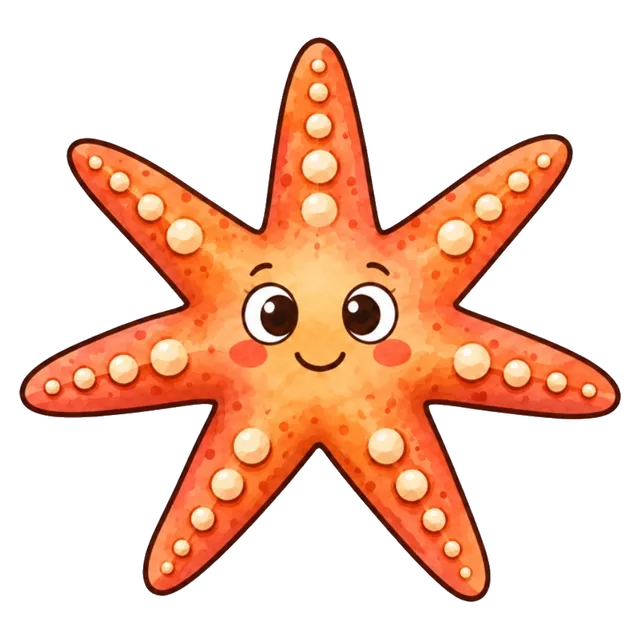
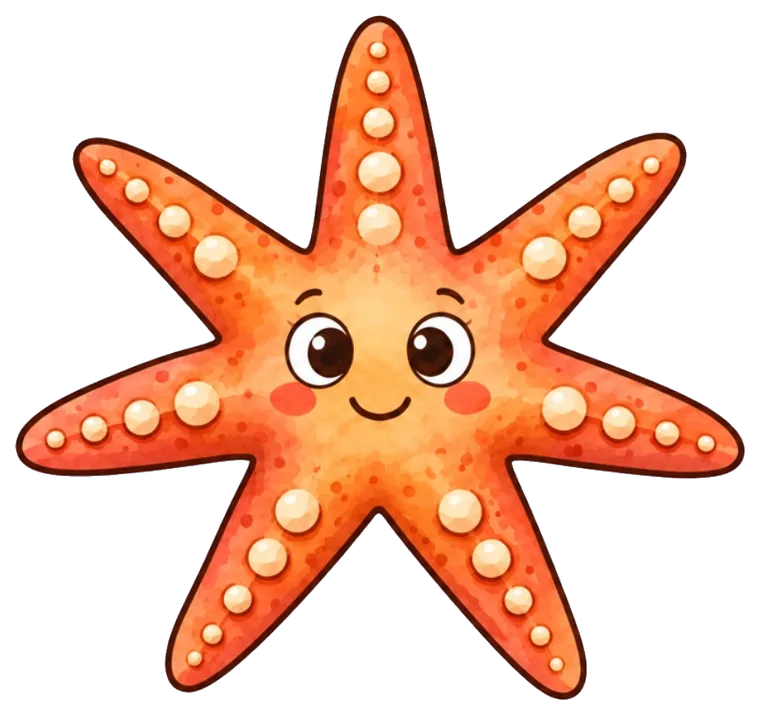
v0.33: Tiere deutlich größer
Bilder eng zugeschnitten statt im Quadrat mit leeren Streifen; das Feld übernimmt das
Seitenverhältnis des Tiers, breite Tiere (Oktopus, Seepferdchen, Nashorn) werden breit statt klein.
Obergrenze 62 % der Breite bzw. 280 px statt 46 % / 210 px, etwas weniger Luft, und das Tier ragt
12 px in den Drehraum über dem ruhenden Würfel (gemessen: den braucht er nur beim Rollen).
Bei 390 × 844: 242 statt 179 px hoch. Tests: Größe, zwischen Kopfzeile und ruhendem Würfel,
Zahlplakette bleibt bei allen Tieren beider Sätze im Bild.

Claude-Session: https://claude.ai/code/session_01HZNDqFfj1AaNFCT1pCLNkA

Changed region(s): [[0.0, 0.0, 1.0, 1.0], [0.4688, 0.5625, 0.5312, 0.5938]]

diff --git a/index.html b/index.html
@@ -63,11 +63,14 @@ button { font: inherit; color: inherit; border: 0; background: none; cursor: poi
 
 /* Tiere: jede Zahl hat ihr Tier (Vogel 4 … Zebra 10) – Anker „wir sind bei der 7, beim Seestern“.
    Zwei Sätze: Sticker (tiere/) und wild & bunt (tiere/wild/), Schalter 🐾 auf der Startseite. */
-/* Das Tier nimmt den freien Platz über dem Würfel: so groß, wie die Seite hergibt, höchstens 46 % der Breite
-   bzw. 210 px. Auf dem kleinen iPhone wird es kleiner, statt etwas aus dem Bild zu schieben. */
-.tier { position: relative; flex: 1 1 0; width: 100%; min-height: 70px; max-height: min(46vw, 210px);
+/* Das Tier nimmt den freien Platz über dem Würfel: so groß, wie die Seite hergibt, höchstens 62 % der Breite
+   bzw. 280 px hoch. Auf dem kleinen iPhone wird es kleiner, statt etwas aus dem Bild zu schieben.
+   Das Feld hat das Seitenverhältnis des Tiers (--seiten, vom Skript): breite Tiere werden breit, nicht klein.
+   Unten ragt es 12 px in die Luft über dem ruhenden Würfel (die braucht er nur beim Rollen). */
+.tier { position: relative; flex: 1 1 0; width: 100%; min-height: 70px; max-height: min(62vw, 280px); margin-bottom: -12px;
   display: flex; justify-content: center; }
-.tier-platte { position: relative; height: 100%; aspect-ratio: 1; container-type: size; }
+.tier-platte { position: relative; height: 100%; aspect-ratio: var(--seiten, 1); container-type: size;
+  max-width: calc(100vw - 150px); }            /* rechts bleibt Platz für die Zahlplakette */
 .tier img { width: 100%; height: 100%; object-fit: contain; display: block; filter: drop-shadow(0 4px 8px rgba(43, 33, 64, .22)); }
 .tier-zahl {
   /* wächst mit dem Tier (24 % des Bildes) und steht rechts unten daneben – die Sticker haben freie Formen,
@@ -84,7 +87,7 @@ button { font: inherit; color: inherit; border: 0; background: none; cursor: poi
 }
 .zahlwahl img { display: none; }
 .mit-tieren .zahlwahl button { height: auto; padding: 6px 0 8px; display: flex; flex-direction: column; align-items: center; gap: 2px; }
-.mit-tieren .zahlwahl img { display: block; width: 86%; aspect-ratio: 1; }
+.mit-tieren .zahlwahl img { display: block; width: 86%; aspect-ratio: 1; object-fit: contain; }
 .zurueck { font-size: 28px; font-weight: 800; color: var(--ganz); line-height: 1; }
 
 /* Startseite */
@@ -102,7 +105,7 @@ button { font: inherit; color: inherit; border: 0; background: none; cursor: poi
 
 /* Spielseite */
 .titel .ganz { color: var(--ganz); }
-.buehne { position: relative; flex: 1; display: flex; flex-direction: column; align-items: center; justify-content: center; gap: 10px; }
+.buehne { position: relative; flex: 1; display: flex; flex-direction: column; align-items: center; justify-content: center; gap: 6px; }
 .sockel { position: relative; --s: clamp(130px, 38vw, 210px); }   /* --s: Kantenlänge des Würfels */
 .sockel::after {          /* Schatten bleibt liegen, während der Würfel sich überschlägt */
   content: ""; position: absolute; left: 22%; right: 22%; bottom: 2%; height: 16px;
@@ -149,7 +152,7 @@ button { font: inherit; color: inherit; border: 0; background: none; cursor: poi
 
 .gleichung {
   --rahmen: .14em;        /* so weit steht der Lückenkasten über die Ziffer hinaus */
-  margin: 8px 0 0; display: flex; align-items: center; gap: .34em; line-height: 1.15;
+  margin: 2px 0 0; display: flex; align-items: center; gap: .34em; line-height: 1.15;
   font-size: clamp(38px, 11vw, 58px); font-weight: 900; font-variant-numeric: tabular-nums;
 }
 .gleichung .teil, .gleichung .luecke, .gleichung .rest, .gleichung .ganz { min-width: 1ch; text-align: center; }
@@ -273,7 +276,7 @@ button { font: inherit; color: inherit; border: 0; background: none; cursor: poi
 </main>
 
 <script>
-const APP_VERSION = '0.32';          // bei JEDER Änderung hochzählen
+const APP_VERSION = '0.33';          // bei JEDER Änderung hochzählen
 
 const $ = s => document.querySelector(s);
 const $$ = s => document.querySelectorAll(s);
@@ -858,6 +861,9 @@ for (const n of ZAHLEN) {
   $('#zahlwahl').append(b);
 }
 wuerfelEl.addEventListener('click', tippeWuerfel);
+$('#tier-bild').addEventListener('load', e => {                // Feld bekommt die Form des Tiers
+  e.target.parentElement.style.setProperty('--seiten', (e.target.naturalWidth / e.target.naturalHeight).toFixed(3));
+});
 // Zahlenleiste: Finger aufsetzen, notfalls seitlich rutschen – es zählt die Taste beim Loslassen.
 const lupeEl = $('#lupe');
 let gedrueckt = null;

diff --git a/tools/freistellen.py b/tools/freistellen.py
@@ -46,11 +46,14 @@ def freistellen(bild, grund=None, rauschen=.04, aussen_blass=0):
     return rgba.crop(rgba.getchannel('A').point(lambda v: 255 if v > 25 else 0).getbbox())
 
 
-def ins_quadrat(rgba, groesse, anteil=.94):
-    """In ein durchsichtiges Quadrat einpassen; vormultipliert verkleinert, damit kein dunkler Saum entsteht."""
-    faktor = groesse * anteil / max(rgba.size)
+def zuschneiden(rgba, kante, rand=.02):
+    """Eng um das Tier, Seitenverhältnis bleibt (kein Quadrat mit leeren Streifen): die längere Seite wird
+    kante px, ringsum ein schmaler durchsichtiger Rand für den Schatten. Vormultipliert verkleinert,
+    damit kein dunkler Saum entsteht."""
+    faktor = kante * (1 - 2 * rand) / max(rgba.size)
     neu = (round(rgba.width * faktor), round(rgba.height * faktor))
     klein = rgba.convert('RGBa').resize(neu, Image.LANCZOS).convert('RGBA')
-    ziel = Image.new('RGBA', (groesse, groesse), (0, 0, 0, 0))
-    ziel.alpha_composite(klein, ((groesse - neu[0]) // 2, (groesse - neu[1]) // 2))
+    r = round(kante * rand)
+    ziel = Image.new('RGBA', (neu[0] + 2 * r, neu[1] + 2 * r), (0, 0, 0, 0))
+    ziel.alpha_composite(klein, (r, r))
     return ziel, faktor

diff --git a/tools/sticker.py b/tools/sticker.py
@@ -9,13 +9,13 @@ Aufruf im Projektordner: python3 tools/sticker.py
 """
 from pathlib import Path
 from PIL import Image
-from freistellen import freistellen, ins_quadrat
+from freistellen import freistellen, zuschneiden
 
-QUELLE, GROESSE = Path('tiere/quelle'), 640           # größte Anzeige 210 px × 3 auf dem iPhone
+QUELLE, GROESSE = Path('tiere/quelle'), 760           # längere Seite; Anzeige bis ~242 px × 3 = 726 auf dem iPhone (390 pt)
 
 for n in range(4, 11):
     vorlage = next(QUELLE / f'{n}.{e}' for e in ('png', 'jpg', 'jpeg', 'webp') if (QUELLE / f'{n}.{e}').exists())
     tier = freistellen(Image.open(vorlage), grund=(255, 255, 255), rauschen=.10, aussen_blass=.3)   # ohne Schattenhauch
-    bild, faktor = ins_quadrat(tier, GROESSE)
+    bild, faktor = zuschneiden(tier, GROESSE)
     bild.save(f'tiere/{n}.webp', quality=82, method=6)
-    print(f'tiere/{n}.webp  aus {vorlage.name}, Tier {tier.width}×{tier.height} px, ×{faktor:.2f}')
+    print(f'tiere/{n}.webp  aus {vorlage.name}, {bild.width}×{bild.height} px, ×{faktor:.2f}')

diff --git a/tools/wild.py b/tools/wild.py
@@ -10,14 +10,14 @@ Aufruf im Projektordner: python3 tools/wild.py
 """
 from pathlib import Path
 from PIL import Image
-from freistellen import freistellen, ins_quadrat
+from freistellen import freistellen, zuschneiden
 
 QUELLE, ZIEL = Path('tiere/quelle/wild'), Path('tiere/wild')
-GROESSE = 560           # Anzeige 179 px × 3 auf dem iPhone (390 pt); Aquarell ist teuer, darum nicht 640
+GROESSE = 700           # längere Seite; Anzeige bis ~242 px × 3 = 726 auf dem iPhone (390 pt)
 
 ZIEL.mkdir(exist_ok=True)
 for n in range(4, 11):
     tier = freistellen(Image.open(QUELLE / f'{n}.jpg'))                      # Grund: Grau vom Bildrand
-    bild, faktor = ins_quadrat(tier, GROESSE)
+    bild, faktor = zuschneiden(tier, GROESSE)
     bild.save(ZIEL / f'{n}.webp', quality=68, alpha_quality=75, method=6)
-    print(f'tiere/wild/{n}.webp  Tier {tier.width}×{tier.height} px, ×{faktor:.2f}')
+    print(f'tiere/wild/{n}.webp  {bild.width}×{bild.height} px, ×{faktor:.2f}')

diff --git a/README.md b/README.md
@@ -38,8 +38,8 @@ Lernspiel fürs Handy, damit sich die Zerlegungen der Zahlen 4 bis 10 als **Ziff
 **Tiere** (Schalter 🐾 auf der Startseite: aus → Sticker → wild & bunt → aus; beim ersten Laden aus, die Wahl wird gespeichert): jede Zahl hat ihr Tier, gewählt nach dem
 Anlaut des Zahlworts – 4 **V**ogel, 5 **F**rosch, 6 **S**eepferdchen, 7 **S**eestern (7 Arme, einer
 nach oben: 3 + 1 + 3), 8 Oktopus (Ausnahme: *okto* = acht, 8 Arme als 4 + 4), 9 **N**ashorn,
-10 **Z**ebra. Auf der Spielseite sitzt das Tier groß über dem Würfel (freier Platz, bis 46 % der
-Breite bzw. 210 px), die Zahl als Plakette rechts unten daneben („wir sind beim Oktopus, bei der 8“).
+10 **Z**ebra. Auf der Spielseite sitzt das Tier groß über dem Würfel (freier Platz, bis 62 % der
+Breite bzw. 280 px hoch; das Feld hat die Form des Tiers, breite Tiere werden breit statt klein), die Zahl als Plakette rechts unten daneben („wir sind beim Oktopus, bei der 8“).
 Es hüpft bei jeder richtigen Antwort, nach einer ganzen Runde zweimal. Schalter aus = ohne Tiere.
 
 Die Sticker kommen aus einem Bildgenerator, je Tier eine Vorlage (`tiere/quelle/4.jpg` … `10.jpg`,
@@ -47,14 +47,14 @@ Die Sticker kommen aus einem Bildgenerator, je Tier eine Vorlage (`tiere/quelle/
 Einzelbilder kommen in voller Größe an). `python3 tools/sticker.py` stellt sie **ohne den weißen
 Stickerrand** frei („Farbe zu Transparenz“ gegen Weiß, `tools/freistellen.py`): Weißes im Tier (Augen,
 Zebrastreifen) bleibt, weil es innerhalb des Umrisses liegt; der Schattenhauch des früheren Randes
-geht mit. Ergebnis `tiere/*.webp` (640 px, nur verkleinert, also scharf). Offene Punkte: Der Frosch
+geht mit. Ergebnis `tiere/*.webp` (eng zugeschnitten, längere Seite 760 px, nur verkleinert, also scharf). Offene Punkte: Der Frosch
 zeigt 4 Beine (bei der 5 lädt das zum falschen Zählen ein), das Seepferdchen liegt waagerecht statt
 als 6. Die frühere gezeichnete Fassung (SVG mit Papierstruktur) liegt in der Git-Historie (bis v0.23).
 
 Zweiter Satz **wild & bunt**: Aquarell-Tiere mit Farbspritzern (`tiere/quelle/wild/4.jpg` … `10.jpg`,
 1024 px). `python3 tools/wild.py` rechnet den grauen Grund pro Pixel heraus (dasselbe `tools/freistellen.py`),
 damit die weichen Aquarellränder und Spritzer bleiben; was innen liegt (grauer Nashornkörper, weiße
-Zebrastreifen) bleibt voll deckend. Ergebnis `tiere/wild/*.webp` (560 px, je ~70–110 KB; wird erst
+Zebrastreifen) bleibt voll deckend. Ergebnis `tiere/wild/*.webp` (eng zugeschnitten, längere Seite 700 px, je ~110–180 KB; wird erst
 geladen, wenn der Satz gewählt ist). Auch hier: Oktopus genau 8 Arme (4 + 4), Seestern genau 7.
 
 **Effekte** (am Gerät mit Reglern ausprobiert, dann fest eingestellt): Staub 4× (`STAUB`), 60 Sterne
